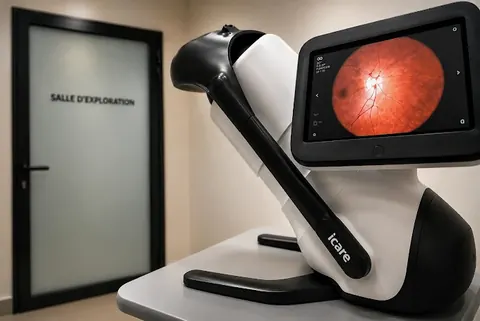
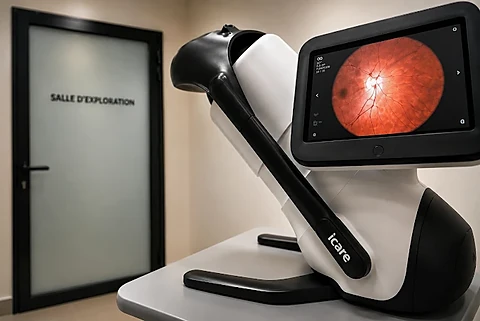
fix(retine): photo iCare nette (affichée à sa taille réelle)
La source ne fait que 680 px : en pleine largeur (1200 px) elle était
agrandie et floue. Variante « image entière » (photoFit: 'full', max
560 px) et encodage renforcé (AVIF 74 / WebP 90 + netteté), comme dr-oct.

diff --git a/src/data/services-content.js b/src/data/services-content.js
@@ -440,6 +440,7 @@ export const servicesContent = [
     label: 'Rétine',
     photo: 'icare',
     photoAlt: 'Rétinographe numérique iCare du cabinet',
+    photoFit: 'full', // source 680 px : affichée à sa taille (pas d'agrandissement flou)
     card: 'Diagnostic et suivi des pathologies rétiniennes, dont la rétinopathie diabétique et la DMLA.',
     intro:
       'Diagnostic et suivi des pathologies de la rétine, dont la rétinopathie diabétique et la DMLA, avec des examens réalisés au cabinet.',

diff --git a/scripts/optimize-images.py b/scripts/optimize-images.py
@@ -79,6 +79,7 @@ CROP = {
 # Qualité renforcée pour les portraits très visibles (source petite → moins de compression)
 QUALITY = {
     "dr-oct": {"avif": 74, "webp": 90, "sharpen": True},
+    "icare": {"avif": 74, "webp": 90, "sharpen": True},  # source 680 px (page Rétine)
 }
 
 WIDTHS = [480, 800, 1200]
